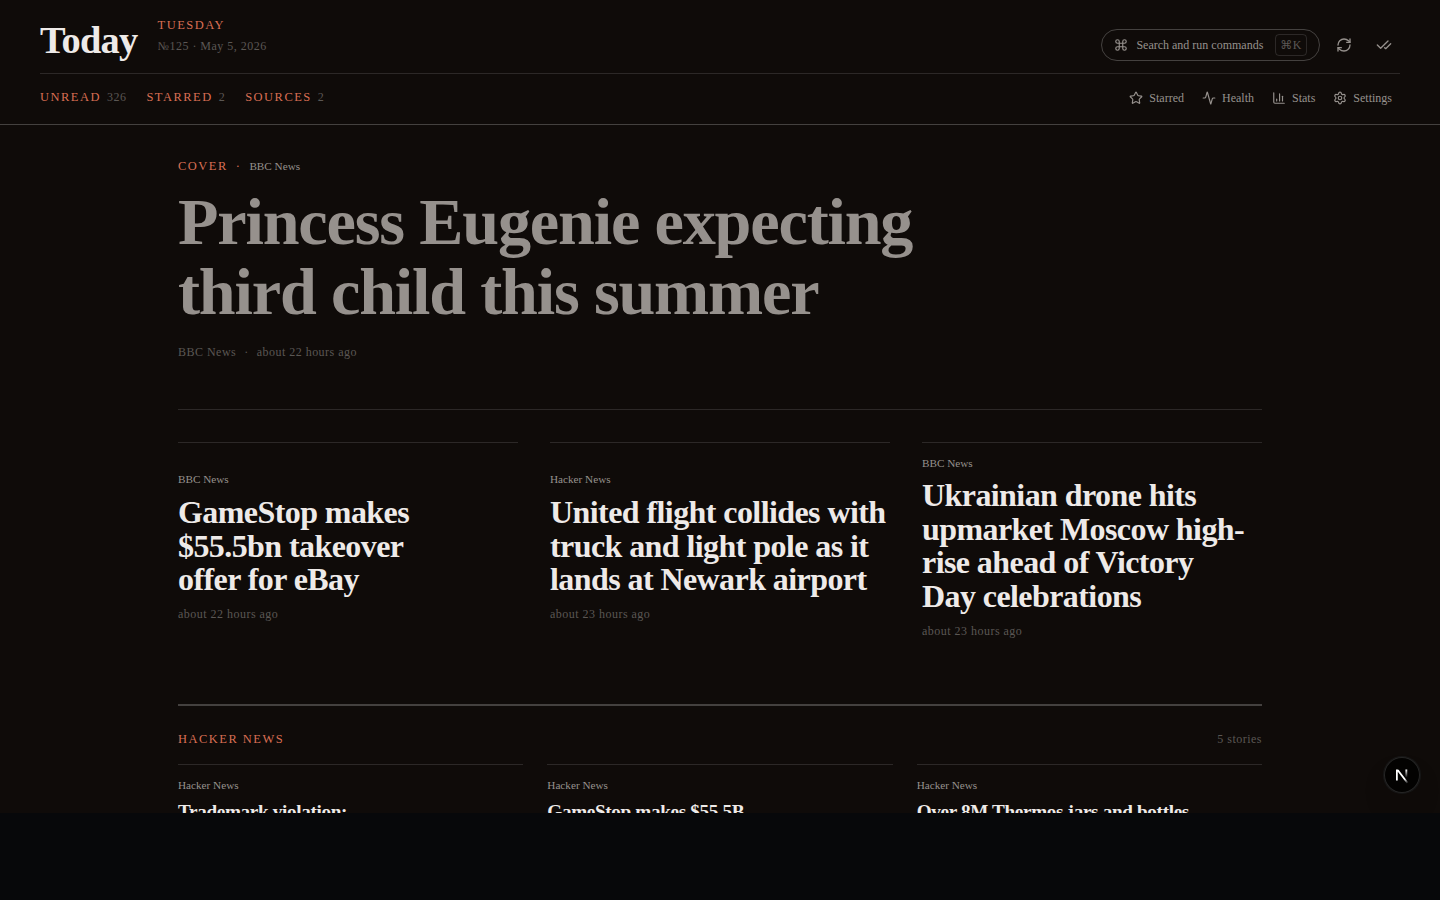
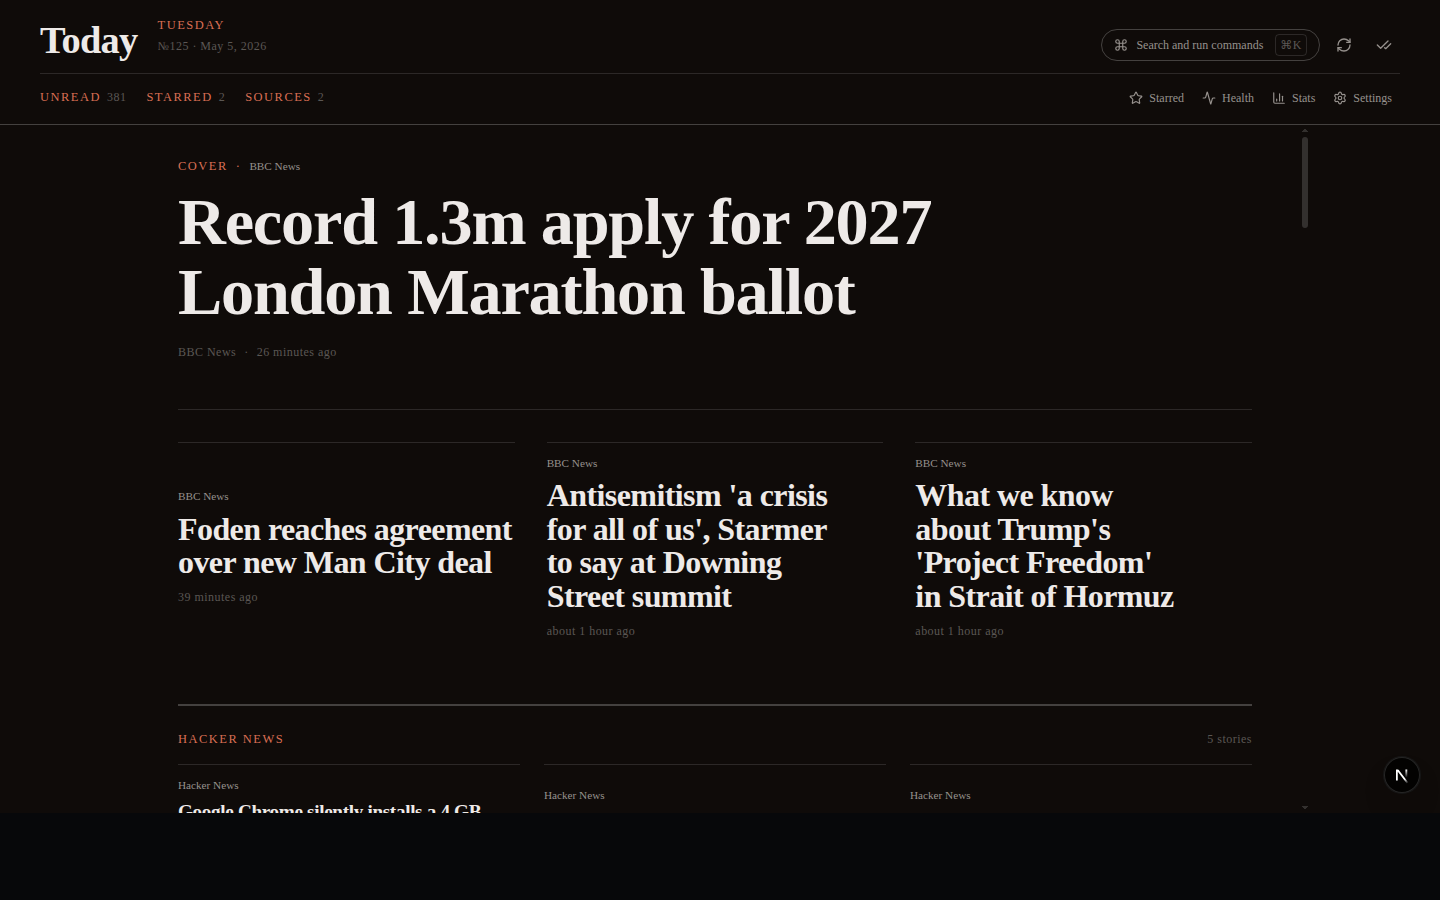
fix: Fixed weekday format & vertical scrollbar

diff --git a/src/app/globals.css b/src/app/globals.css
@@ -474,3 +474,46 @@
   animation: edition-rise var(--motion-base) var(--ease-out-quint) both;
   animation-delay: calc(var(--edition-index, 0) * 60ms);
 }
+
+/* Editorial scrollbar — scoped so other concepts/pages keep their default
+   browser scrollbars. Low-contrast thumb against the warm-dark paper, but
+   still discoverable. Track is transparent so the rule never collides with
+   the issue's hairline grammar. */
+.edition-scroll {
+  scrollbar-width: thin;
+  scrollbar-color: color-mix(in oklch, var(--edition-rule-strong) 70%, transparent)
+    transparent;
+}
+
+.edition-scroll::-webkit-scrollbar {
+  width: 10px;
+  height: 10px;
+}
+
+.edition-scroll::-webkit-scrollbar-track {
+  background: transparent;
+}
+
+.edition-scroll::-webkit-scrollbar-thumb {
+  background-color: color-mix(
+    in oklch,
+    var(--edition-rule-strong) 70%,
+    transparent
+  );
+  background-clip: content-box;
+  border: 3px solid transparent;
+  border-radius: 999px;
+}
+
+.edition-scroll:hover::-webkit-scrollbar-thumb,
+.edition-scroll:focus-within::-webkit-scrollbar-thumb {
+  background-color: color-mix(
+    in oklch,
+    var(--edition-ink-faint) 80%,
+    transparent
+  );
+}
+
+.edition-scroll::-webkit-scrollbar-corner {
+  background: transparent;
+}

diff --git a/src/components/edition/EditionMasthead.tsx b/src/components/edition/EditionMasthead.tsx
@@ -33,9 +33,13 @@ interface EditionStamp {
   iso: string;
 }
 
+// Pin to en-US so the masthead reads as an English-language edition stamp
+// regardless of the user's OS / browser locale. Keeps the issue deterministic.
+const EDITION_LOCALE = "en-US";
+
 function computeStamp(d: Date): EditionStamp {
-  const weekday = d.toLocaleDateString(undefined, { weekday: "long" });
-  const date = d.toLocaleDateString(undefined, {
+  const weekday = d.toLocaleDateString(EDITION_LOCALE, { weekday: "long" });
+  const date = d.toLocaleDateString(EDITION_LOCALE, {
     month: "long",
     day: "numeric",
     year: "numeric",

diff --git a/src/components/edition/EditionIssue.tsx b/src/components/edition/EditionIssue.tsx
@@ -42,7 +42,7 @@ export function EditionIssue({
   return (
     <article
       aria-label="Today edition front page"
-      className="edition-issue mx-auto h-full w-full max-w-[1180px] overflow-y-auto px-6 lg:px-12 pb-24 pt-6"
+      className="edition-issue edition-scroll mx-auto h-full w-full max-w-[1180px] overflow-y-auto px-6 lg:px-12 pb-24 pt-6"
     >
       <CoverStory
         article={issue.cover}

diff --git a/docs/design-lab/concepts/03-today-edition.md b/docs/design-lab/concepts/03-today-edition.md
@@ -438,6 +438,13 @@ Unit-tested in `composeIssue.test.ts` (9 cases): empty input, cover-only, second
 - Patterns A–D (layout grammar by `dayOfYear % patternCount`) collapsed to **one** pattern in this phase — the cover + seconds + section + later structure. The day-of-year rotation lives in section ordering instead. Multiple layout patterns are deferred to Phase 7.
 - The default-desktop-only mounting strategy keeps the existing three-pane fully reachable: any feed click, starred toggle, search, or selected article falls back to the canonical layout. This was the simplest way to preserve the brief's "keep three-pane reachable" requirement without reskinning the reader (Phase 5).
 
+### Phase 4 follow-up fixes
+
+After review, two visual issues were caught in the masthead screenshot and fixed on this branch:
+
+1. **Weekday localized to Spanish ("MARTES").** `EditionMasthead.computeStamp()` was calling `toLocaleDateString(undefined, …)`, which picked up the user's OS / browser locale. Pinned the locale to `"en-US"` (named constant `EDITION_LOCALE`) for both the weekday and the long date so the masthead always reads as an English-language edition stamp regardless of the runtime environment, keeping the issue deterministic.
+2. **Bright white scrollbar against the warm-dark issue surface.** Added a scoped `.edition-scroll` utility in `globals.css` (Firefox `scrollbar-width` / `scrollbar-color`, WebKit `::-webkit-scrollbar*`). Thumb uses `color-mix(in oklch, var(--edition-rule-strong) 70%, transparent)` against a transparent track; brightens to `--edition-ink-faint` on hover/focus-within. Applied via class on the `<article>` scroll container in `EditionIssue.tsx`. Other concepts/pages keep their default browser scrollbars.
+
 ### Follow-ups carried into later phases
 
 - Phase 5: open the reader as a slide-over **without** falling back to the three-pane, so the issue stays visible behind it.
